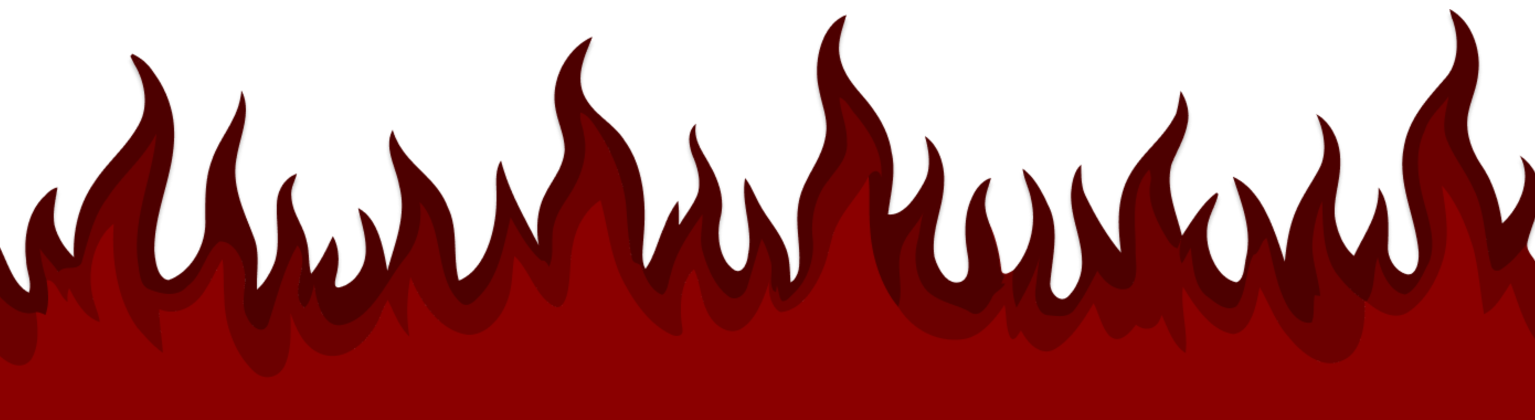
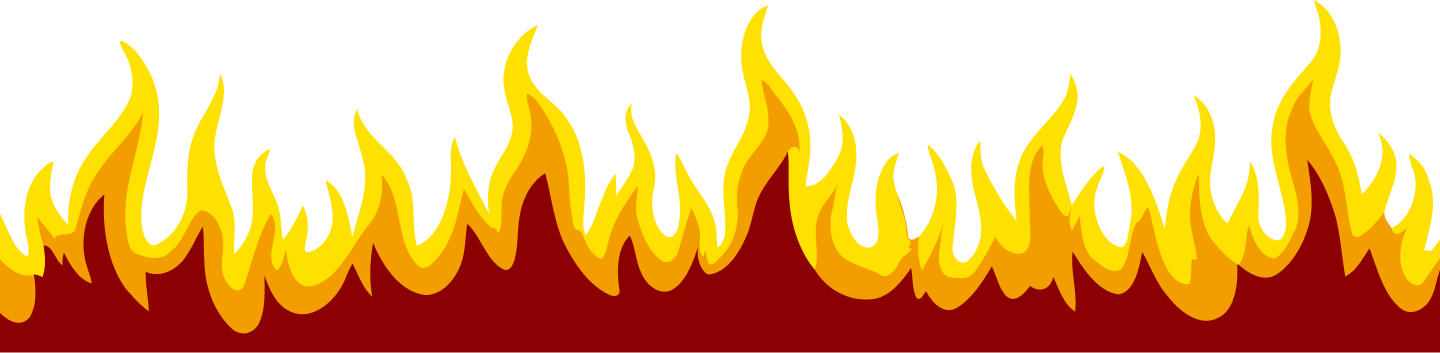
atualizações visuais
alterei a imagem do rodapé
imagem de fundo da página home agora esta com o tamanho total da tela e com o fundo fixo

diff --git a/css/home.css b/css/home.css
@@ -1,7 +1,7 @@
 .img-titulo {
   display: flex;
   width: 100%;
-  height: 450px;
+  height: 90vh;
   background: linear-gradient(rgba(0, 0, 0, 0.5), rgba(0, 0, 0, 0.5)),
     url(../assets_reginaldo/foto-home-2.png);
   background-size: cover;
@@ -15,6 +15,10 @@
 
   border-top: 5px solid #bbc628;
   border-bottom: 5px solid #bbc628;
+}
+
+.titulo-inicial{
+  position: relative;
 }
 
 .container-home {

diff --git a/index.html b/index.html
@@ -32,7 +32,7 @@
     </div>
   </header>
   <div class="img-titulo">
-    <h1>Reginaldo Espetos</h1>
+    <h1 >Reginaldo Espetos</h1>
     <h2>Centro de distribuição e fábrica de espetos</h2>
   </div>
   <section class="container-home">

diff --git a/contatos.html b/contatos.html
@@ -33,6 +33,8 @@
     </div>
   </header>
 
+  <h1>Entre em contato:</h1>
+
   <footer>
     <img src="assets_reginaldo/rodape.png" alt="" class="onda" />
     <div class="footer-bg">
